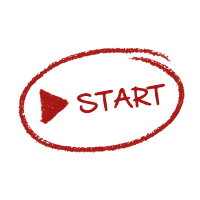
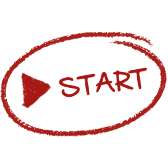
changed menu positioning #4

Changed region(s): [[0.0, 0.1786, 1.0, 0.8333]]

diff --git a/sketch.js b/sketch.js
@@ -64,7 +64,7 @@ function setup() {
   cnvs = createCanvas(canvasWidth, canvasHeight);
   cnvs.touchStarted(click);
 
-  playBtn = new Button(canvasWidth/2 - canvasWidth/12, canvasHeight - canvasWidth/8,
+  playBtn = new Button(canvasWidth/2 - canvasWidth/12, canvasHeight - canvasWidth/12,
     playBtnImg, canvasWidth/6, canvasWidth/6);
 
   player = new Player(0, canvasWidth/4, canvasWidth/8, playersIngredients[0], 4);
